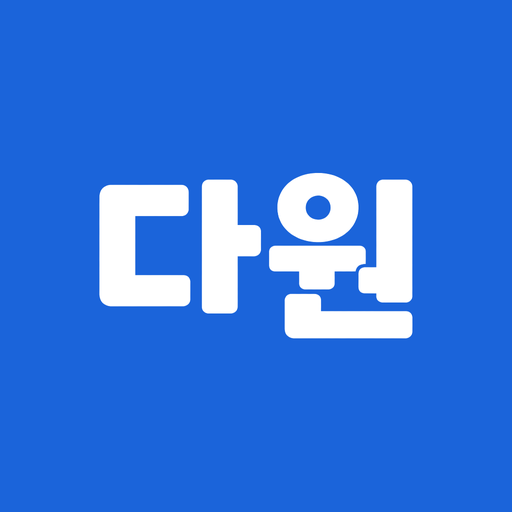
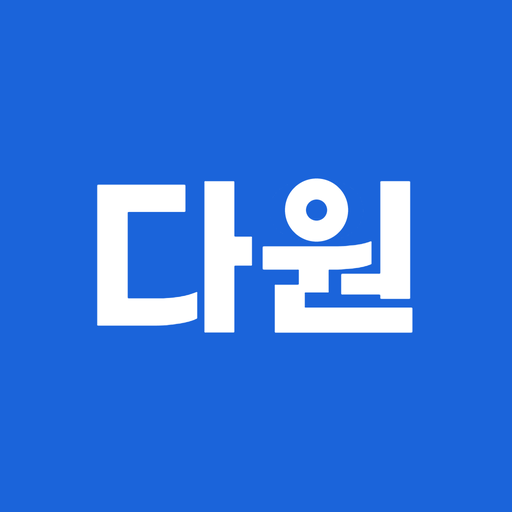
[Claude] 앱 아이콘: 앱 파랑 바탕 + 흰 '다원' 네모꼴(G마켓 산스 Bold), '원'의 ㅇ은 정원으로 바꿔 그림 (v85)

Changed region(s): [[0.1875, 0.3125, 0.8125, 0.6875]]

diff --git a/sw.js b/sw.js
@@ -1,6 +1,6 @@
 // 서비스 워커(service worker): 인터넷이 없어도 앱 화면이 열리도록 파일을 저장해 두는 역할
 // 앱 파일을 고치면 아래 버전(CACHE) 이름과 app.js의 APP_VERSION을 함께 올려야 함
-const CACHE = "dawon-v84";
+const CACHE = "dawon-v85";
 const FONT_CACHE = "dawon-font-1"; // 글꼴은 앱 버전과 따로 보관 (버전 올려도 다시 안 받음)
 const FILES = ["./", "./index.html", "./styles.css", "./backup-crypto.js", "./backup.js", "./app.js", "./manifest.webmanifest", "./icon-192.png", "./icon-512.png"];
 

diff --git a/app.js b/app.js
@@ -2,7 +2,7 @@
   "use strict";
 
   // 앱 버전(APP_VERSION): 설정 화면 맨 아래에 표시. sw.js의 CACHE 이름과 같이 올림
-  const APP_VERSION = "v84";
+  const APP_VERSION = "v85";
   // 저장소 이름(KEY): 휴대폰 브라우저 안에 자료를 저장할 때 쓰는 이름
   const KEY = "dawon-mobile-v1";
   // 업무 종류(ROLES)
